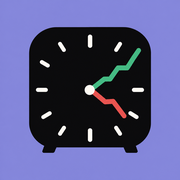
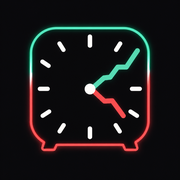
launcher 0.7.36: 앱 아이콘·상단 로고를 부팅 화면 네온 시계 로고로 통일

diff --git a/app.js b/app.js
@@ -3,7 +3,7 @@
 //   어디서든(집 밖에서도) 설정 페이지(settings-<variant>.html?id=)를 연다. 설정 요청은 cloud_shim.js 가 Worker 로 보낸다.
 // - 기기 목록은 localStorage ct.cloudDevices [{id, token, name, variant, addedAt, totem?}]. totem 은 TOTEMS 인덱스(사용자가 고른 것). 없으면 기기 ID 해시로 정한다.
 // - IP 직접 연결(LNA, 같은 Wi-Fi)은 개발자 모드(버전 7번 탭 또는 ?dev=1)에서만. 옛 ct.devices 는 거기서만 보인다.
-const APP_VERSION = "0.7.35";
+const APP_VERSION = "0.7.36";
 const CLOUD = "https://charttotem-cloud.jkinject.workers.dev";
 const KEY_CLOUD = "ct.cloudDevices";
 const KEY_DEVICES = "ct.devices";     // 개발자 모드: IP 기기

diff --git a/sw.js b/sw.js
@@ -1,5 +1,5 @@
 // 앱 셸을 캐시해서 오프라인에서도 열리게 한다. 기기(http://192.168.x.x)·클라우드(workers.dev) 요청은 건드리지 않는다.
-const CACHE = "charttotem-v0.7.35";
+const CACHE = "charttotem-v0.7.36";
 const SHELL = ["./", "index.html", "style.css", "app.js", "settings-kstock.html", "settings-coin.html", "fonts/tft.json", "fonts/ko24.bin", "fonts/ko14.bin", "manifest.json", "icons/icon-192.png", "icons/icon-512.png", "icons/icon-180.png", "icons/home-empty.png", "icons/device.png",
   ...["01-bull", "02-bear", "03-owl", "04-whale", "05-fox", "06-cat", "07-rabbit", "08-penguin", "09-frog", "10-ghost", "11-robot", "12-octopus"].map((f) => `icons/totems/${f}.png`)];
 

diff --git a/README.md b/README.md
@@ -105,3 +105,7 @@ GitHub Pages 로 호스팅: https://charttotem.lalatap.kr/ (커스텀 도메인.
 
 - 기기 카드의 섬네일이 기기 그림 대신 **토템 캐릭터**(황소·곰·부엉이·고래·여우·고양이·토끼·펭귄·개구리·유령·로봇·문어, `icons/totems/`)가 된다. 기본값은 **기기 ID 해시**(`app.js` `hashTotem`)라 같은 기기는 어느 폰·재설치 뒤에도 같은 토템이다. ⋯ 메뉴 「토템 바꾸기」로 고르면 `cloudDevices[].totem` 에 저장(이 폰에서만, 서버·기기에는 안 보냄).
 - 원본·프롬프트는 루트 저장소 `branding/totems/` (`ip-as-logo` 스킬 + Codex 이미지 생성, `PROMPT.md`·`NOTES.md`). `python3 branding/totems/make_icons.py` 가 144px 로 줄여 `icons/totems/` 에 넣는다. 토템 이미지를 못 받으면 예전 기기 그림(`icons/device.png`)으로 폴백.
+
+## 0.7.36 — 네온 로고
+
+- 앱 아이콘·상단 로고를 기기 부팅 화면의 **네온 시계 로고**(펌웨어 2.6.12 A안)와 통일. 검은 바탕 위 민트·빨강 네온 테두리. 원본 `branding/app-icon-neon/app-icon-1024.png`(Codex, `PROMPT.md`) → `python3 firmware/tools/gen_icon.py` 로 `icons/icon-512/192/180.png`. 옛 라벤더 플랫 아이콘은 `branding/icon-1024-flat-old.png`.
